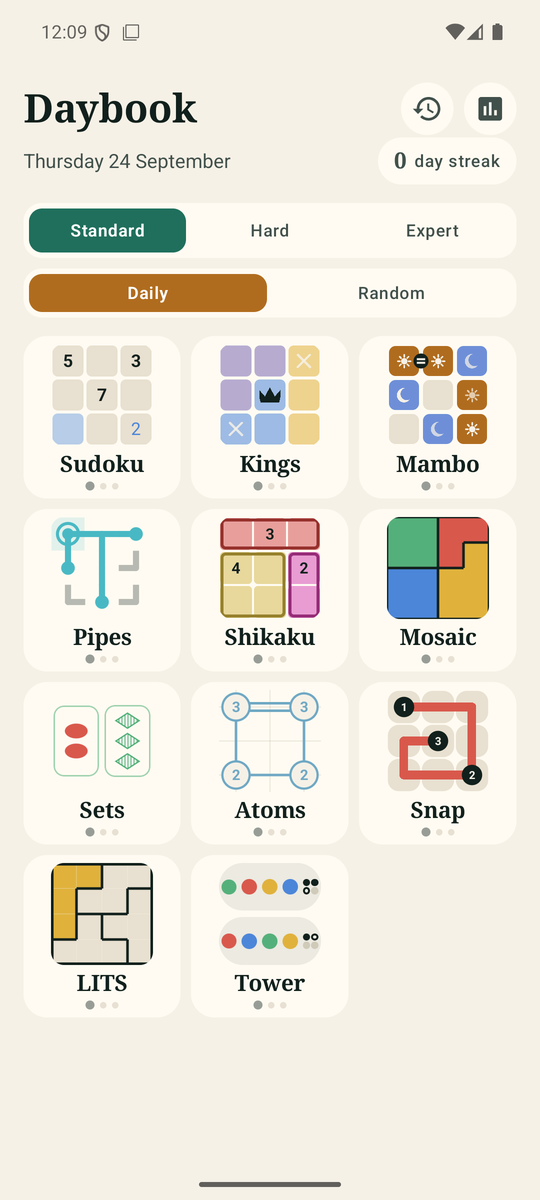
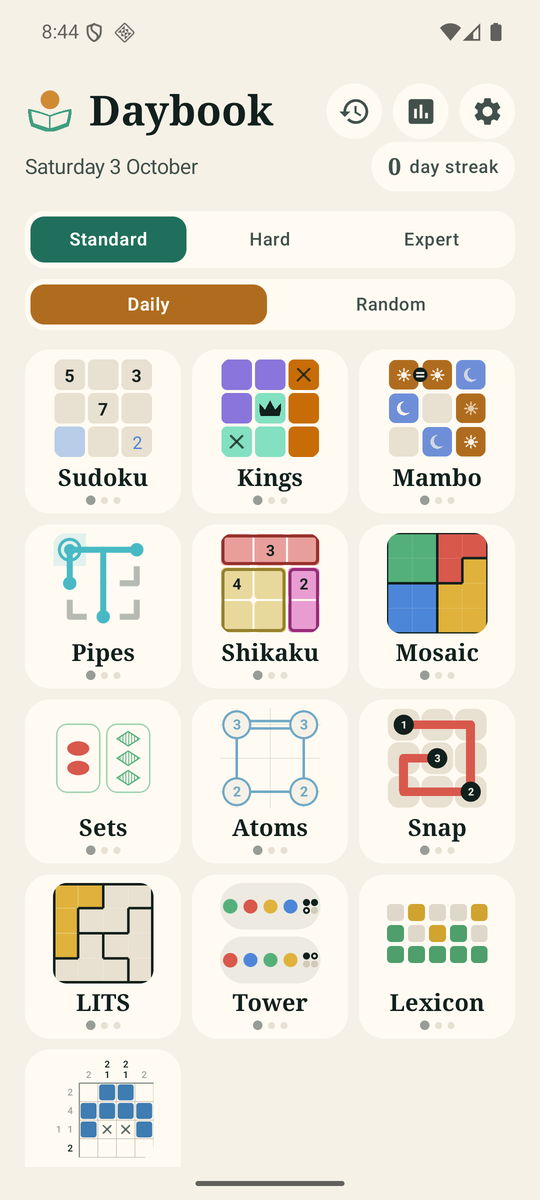
docs: recapture the home screenshot (thirteen tiles) and record the emulator pass

diff --git a/docs/TODO.md b/docs/TODO.md
@@ -120,16 +120,11 @@ below have a famous branded version; use the descriptive name).
 
 ### Asked for by the owner
 
-- [ ] **Lexicon: check it on the emulator.** Rendered in the web build (all three tiers, 390x844, 375x537 and
-  1280x800, light and dark, Chromium and WebKit, with played rows): the keyboard stopped at 520dp on wide
-  screens and a letter already ruled out is now faded, which in light was the same beige as an untried key. Still
-  to do: the hint popover over a highlighted tile and key, the walkthrough, a physical keyboard, the Android
-  emulator, and recapture `docs/screenshots/home.png` (thirteen tiles now) and its alt text.
-- [ ] **Nonogram: still unchecked.** Rendered in the web build (2026-10-02, Chromium and WebKit, all three tiers at
-  390x844, 375x537 and 1280x800, light and dark, plus the home grid): the board, clue layout, Fill/Cross pen, taps,
-  hints, the walkthrough's first frame and a hints-driven solve all draw correctly; 15x15 clue digits are small
-  (~9dp at 390dp wide) but legible. Not done: a sweep by touch drag, 360x640 and 390x664, the emulator, and
-  recapturing `docs/screenshots/home.png` (thirteen tiles, the last row has one tile and the grid scrolls) and its alt text.
+- [ ] **Nonogram and Lexicon: short phone screens on the emulator.** Both were driven on the Android emulator
+  (1080x2160 and 1080x2400, 2026-10-03): the Lexicon hint popover over a highlighted row and keys, its nine-frame
+  walkthrough, hardware keys, and a Nonogram 5x5 swept by touch drag to the finish frame all work, and a save made on
+  the build before the toolchain upgrade (a Sudoku with two digits placed and a running timer) loaded on this one.
+  Not done: 360x640 and 390x664, and the 10x10 and 15x15 Nonogram tiers by touch on the emulator.
 - [ ] **Nonogram: pictures are noise.** The boards are random squares, not drawings. One smoothing pass gave blobbier
   pictures but failed the shape rules on 96% of 5x5 draws (about 25% of 10x10, 45% of 15x15), so it would need a
   size-by-size retune; measure the pass rate before trying again. Hardware-keyboard entry is in the keyboard item above.
